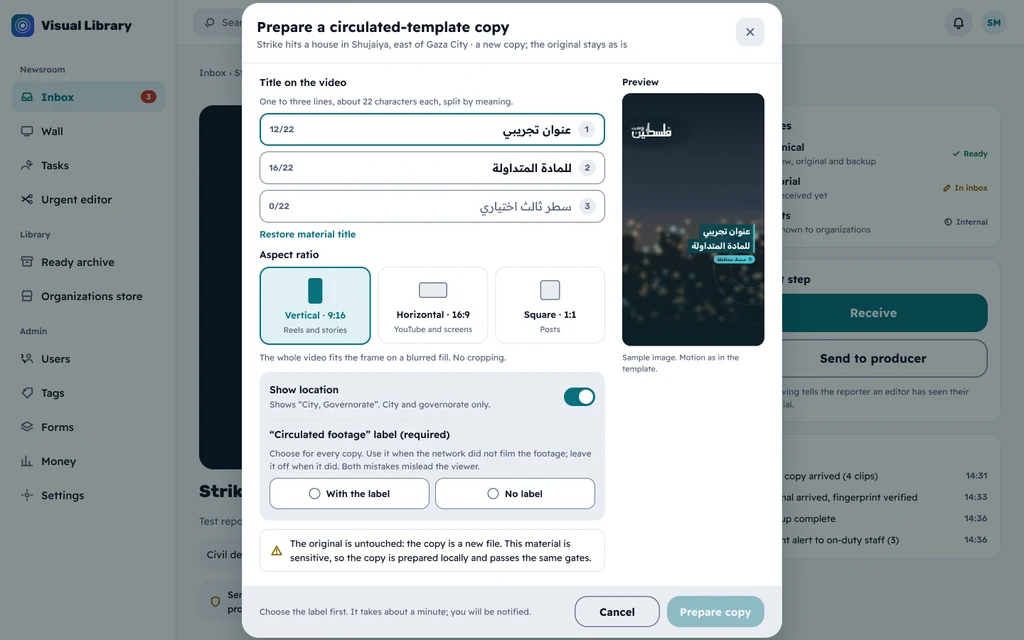
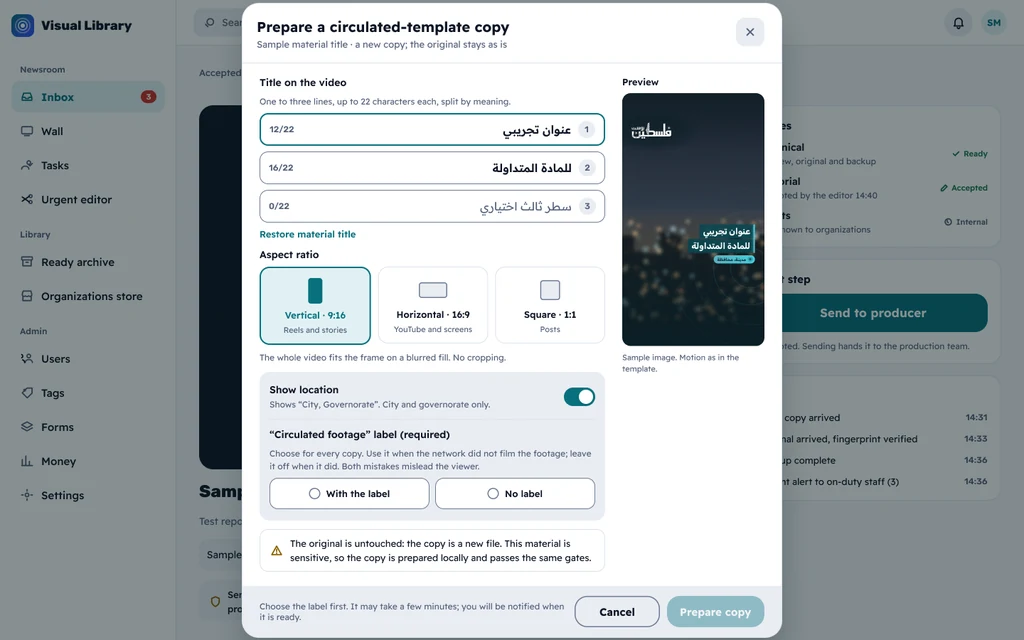
design: address #471 review on the copy-request frames
- Neutral sample text in every frame (title, breadcrumb, tags, place),
  an accepted material with a single original.
- Phone: label options stack, the bottom bar no longer hides actions,
  44px targets for download, close and "new request".
- Switch knob tokens: text/on-brand when on, neutral/0 when off, with
  both pairs added to v2.contrastPairs (54 pairs pass).
- "It may take a few minutes" instead of an unmeasured duration; the
  coordinator's copy for the queue limit, source limit, location error,
  temporary link and internal-use download.
- Strings table covers every visible string.
- Remove render stills under motion/circulated-template/out/ that an
  earlier commit picked up before the ignore rule existed.

Claude-Session: https://claude.ai/code/session_01HY7py4Kwox1KypVxZuFGKP

diff --git a/docs/design/specs/web-v2.md b/docs/design/specs/web-v2.md
@@ -138,11 +138,11 @@
 
 ## نسخة بقالب المتداول (صفحة Figma `Web · طلب نسخة بقالب المتداول`)
 
-**مقترح يطابق ADR 0091 وعقده (#469).** قرار المالك (2026-11-02): «نعم نربطه بخط الإنتاج». القالب نفسه في `video-template.md`، وهذا القسم يرسم طلبه من الويب وحالاته.
+**مقترح يطابق ADR 0091 وعقده (#469)، وقرارات المنسّق عليه (2026-11-02).** قرار المالك (2026-11-02): «نعم نربطه بخط الإنتاج». القالب نفسه في `video-template.md`، وهذا القسم يرسم طلبه من الويب وحالاته.
 
 - **من يطلب:** أدوار `supervisor` و`producer` و`editor_in_chief` ضمن نطاقها.
 - **كيف:** طلب صريح من الطاقم. لا يُطلق آليًا، وليس محرّرًا.
-- **النصوص في الإطارات:** أسطر العنوان والمعاينة نصّ تجريبي («عنوان تجريبي / للمادة المتداولة»، «مدينة، محافظة»)، لا عنوان المادة الحقيقي، لأن المعاينة تحمل الشعار.
+- **العيّنة:** مادة «مقبولة» بأصل واحد. والنصوص كلها تجريبية محايدة: «عنوان تجريبي للمادة»، و«مدينة، محافظة»، و«وسم تجريبي»، ولا أماكن حقيقية ولا عناوين أخبار.
 
 | الرمز | الشاشة | اللقطة |
 |---|---|---|
@@ -159,37 +159,43 @@
 | C11 | حالات المنع والأخطاء | `c11-errors` |
 | C12 | حالات المنع والأخطاء، إنجليزية | `c12-errors-en` |
 
-**الزرّ** في آخر بطاقة «الملفات» (Outline)، تحت النسخ التي طُلبت. لا يدخل «الخطوة التالية»، لأن تلك البطاقة لسير المادة التحريري، والنسخة طلب جانبي لا يغيّر شيئًا من الحالات الثلاث. وحين لا تُتاح النسخة لا يختفي الزرّ: يظهر معطَّلًا، وتحته السبب (C11).
+**الزرّ** في آخر بطاقة «الملفات» (Outline)، تحت النسخ التي طُلبت. لا يدخل «الخطوة التالية»، لأن تلك البطاقة لسير المادة التحريري، والنسخة طلب جانبي لا يغيّر شيئًا من الحالات الثلاث. وحين لا تُتاح النسخة لا يختفي الزرّ: يظهر معطَّلًا وتحته السبب (C11).
 
 **النافذة** (760 عرضًا على سطح المكتب، وورقة من أسفل الشاشة على الهاتف). حقولها هي `MaterialRenderRequest`:
 
 - **العنوان على الفيديو (`title_lines`):**
-  - من سطر إلى ثلاثة، ولكل سطر عدّاد `12/22`.
-  - العدّاد يعدّ نقاط الترميز (`Array.from(line).length`)، كما يعدّها الخادم، لا وحدات UTF-16.
+  - من سطر إلى ثلاثة، حتى 22 حرفًا للسطر، ولكل سطر عدّاد `12/22`.
+  - العدّاد يعدّ نقاط الترميز (`Array.from(line).length`) كما يعدّها الخادم، لا وحدات UTF-16.
   - تملأ الواجهة الحقول ابتداءً من عنوان المادة مقسومًا على الكلمات، والطاقم يعيد القسمة على المعنى. والخادم لا يقسم شيئًا.
   - «استعادة عنوان المادة» تعيد القسمة الأولى.
-  - فوق 22 يصير العدّاد والإطار بلون الخطر، ويتعطّل «تجهيز النسخة» (C11). وتُرفض محارف الاتجاه والتحكم والمسافات في الطرفين بالقاعدة نفسها، فتُنظَّف عند اللصق.
-- **المقاس (`aspect`):** ثلاث بطاقات بشكل المقاس مصغّرًا: `vertical` 9:16 (الافتراضي)، و`horizontal` 16:9، و`square` 1:1. الفيديو يدخل الإطار كاملًا، والفراغ حوله بخلفية مموّهة من الفيديو نفسه، فلا قصّ.
-- **المعاينة:** القالب مصغّرًا بالعنوان والمكان، ويتبدّل مع المقاس والاختيارات. الخلفية صورة تجريبية، لا إطار من المادة، لأن المادة قد تكون حسّاسة، ولا يلزم مسار عرض جديد لها.
-- **إظهار المكان (`show_location`)** مشغَّل افتراضيًا، والسطر تحته يكتب ما سيظهر. النصّ يبنيه الخادم من حقلَي المادة (`city` و`governorate`)، فلا إحداثيات ولا تفصيل أدقّ (`CLAUDE.md` §5). وإن زاد على 44 حرفًا (`422 render_location_unusable`) يُعطَّل المفتاح، ويقول السبب (C11).
+  - فوق 22 يصير العدّاد والإطار بلون الخطر، ويتعطّل «تجهيز النسخة». ومحارف الاتجاه والتحكم والمسافات في الطرفين تُنظَّف عند اللصق، لأن الخادم يرفضها.
+- **المقاس (`aspect`):** ثلاث بطاقات بشكل المقاس مصغّرًا: `vertical` 9:16 (الافتراضي)، و`horizontal` 16:9، و`square` 1:1. الفيديو يدخل الإطار كاملًا، والفراغ حوله بخلفية مموّهة منه، فلا قصّ.
+- **المعاينة:** القالب مصغّرًا بالعنوان والمكان، ويتبدّل مع المقاس والاختيارات. الخلفية صورة تجريبية، لا إطار من المادة: المادة قد تكون حسّاسة، ولا يلزم لها مسار عرض جديد.
+- **إظهار المكان (`show_location`):**
+  - مشغَّل افتراضيًا، والسطر تحته يكتب ما سيظهر.
+  - النصّ يبنيه الخادم من حقلَي المادة، فلا إحداثيات ولا تفصيل أدقّ (`CLAUDE.md` §5).
+  - إن لم يصلح للقالب بطوله أو محارفه (`422 render_location_unusable`) يُعطَّل المفتاح، ويقول السبب.
 - **وسم «مشاهد متداولة» (`label`): اختيار إلزامي بلا افتراض:**
-  - خياران لا يُختار أيٌّ منهما سلفًا: «بوسم «مشاهد متداولة»» (`circulated_footage`) و«بلا وسم» (`none`).
-  - و«تجهيز النسخة» معطَّل حتى يُختار أحدهما.
-  - الخطأ ممكن في الاتجاهين: وسم ما صوّرته الشبكة بأنه متداول، أو تقديم مشاهد طرف ثالث كأنها من تصوير الشبكة. والاختيار يُسجَّل مع الطالب.
-- **ملاحظة واحدة:** «الأصل لا يُمسّ: النسخة ملف جديد». وللمادة الحسّاسة: «تُجهَّز النسخة محليًا وتمرّ بالبوابات نفسها». النسخة ترث حساسية المادة وحقوقها، ولا تذهب إلى مزوّد خارجي، والنشر عبر بوابة ADR 0084 كما هي.
-- **الأفعال:** «تجهيز النسخة» (Solid) و«إلغاء». في العربية يقع الفعل الأول يسارًا، عكس ترتيبه في الإنجليزية. والسطر بجانبهما يقول ما ينقص قبل الإرسال («اختر الوسم أولًا»)، ثم «التجهيز نحو دقيقة، وتصلك إشارة حين تجهز».
+  - خياران لا يُختار أيٌّ منهما سلفًا: `circulated_footage` و`none`. في الهاتف يُكدَّسان عموديًا كي لا يُقصّ النصّ.
+  - «تجهيز النسخة» معطَّل حتى يُختار أحدهما.
+  - الخطأ ممكن في الاتجاهين، والاختيار يُسجَّل مع الطالب.
+- **الملاحظة:** «الأصل لا يُمسّ: النسخة ملف جديد». وللمادة الحسّاسة تُضاف: «تُجهَّز النسخة محليًا وتمرّ بالبوابات نفسها».
+- **الأفعال:** «تجهيز النسخة» (Solid) و«إلغاء».
+  - في العربية يقع الفعل الأول يسارًا، عكس ترتيبه في الإنجليزية.
+  - والسطر بجانبهما يقول ما ينقص قبل الإرسال («اختر الوسم أولًا»)، ثم «قد يستغرق التجهيز دقائق». ولا رقم للمدة حتى يقيسها ADR 0091 (البند 7).
 
 **الحالات في بطاقة «الملفات»:**
 
 - النسخ لا تأتي من `Material.files`، بل من `GET /materials/{id}/renders`. وتُعرض تحت الأصل والنسخة الخفيفة في مجموعة «نسخ بقالب المتداول»، بوسم «داخلية» موروث من المادة.
+- الحالات بقرار المنسّق: `requested` ← `rendering` ← `ready` أو `failed`.
 - كل نسخة صفّ فيه شكل مقاسها، وكل حالة كلمة وأيقونة ولون معًا.
 
 | `state` | الوسم | ما يقوله الصفّ | الفعل |
 |---|---|---|---|
 | `requested` | `muted` «مطلوبة» | «في الطابور» | لا شيء |
-| `rendering` | `brand` «قيد التجهيز» | «بدأ 14:55»، وشريط غير محدَّد يتحرّك بلا رقم، لأن العقد لا يعطي نسبة | لا شيء |
-| `ready` | `ok` «جاهزة» | «جاهزة 14:52 · رابط التنزيل صالح 10 دقائق» | «تنزيل»: يطلب `download-url` عند النقر، فلا يُخزَّن رابط في الصفحة. وإن سقطت الحقوق يردّ `409 render_not_allowed` ويقول السبب |
-| `failed` | `danger` «تعذّرت» | السبب من `failure_reason` بكلمات (الجدول أدناه) | «طلب جديد» بالمعاملات نفسها، لأن `failed` نهائية |
+| `rendering` | `brand` «قيد التجهيز» | «بدأ 14:55» (`started_at`، يضيفه #469)، وشريط غير محدَّد يتحرّك بلا رقم، لأن العقد لا يعطي نسبة | لا شيء |
+| `ready` | `ok` «جاهزة» | «جاهزة 14:52 · التنزيل برابط مؤقت»، وتحته «للاستعمال الداخلي؛ النشر يمر ببوابة النشر» | «تنزيل»: تنزيل داخلي مُدقَّق، يطلب `download-url` عند النقر، فلا يُخزَّن رابط في الصفحة. وإن سقطت الحقوق يردّ `409 render_not_allowed` ويقول السبب. «تنزيل جاهز للنشر» مؤجَّل إلى مرحلة «مكتب المحرر» (ADR 0084) |
+| `failed` | `danger` «تعذّرت» | السبب من `failure_reason` (الجدول أدناه) | «طلب جديد»: يفتح النافذة مملوءة بمعاملات النسخة الفاشلة، فيعدّلها الطاقم، لا سيما العنوان بعد `title_overflow`. وهو طلب جديد لأن `failed` نهائية |
 
 | `failure_reason` | ما يقوله الصفّ |
 |---|---|
@@ -202,52 +208,101 @@
 | الرمز | ما تقوله الواجهة |
 |---|---|
 | `409 render_not_allowed` · `editorial_state` | «تُتاح بعد قبول المادة تحريريًا»، ومعها الحالة الآن |
-| `409 render_not_allowed` · `source` | «تُتاح حين يصل الأصل ويُتحقَّق من بصمته». والأصل الأطول من 5 دقائق لا يُجهَّز الآن |
+| `409 render_not_allowed` · `source` | «تُتاح حين يصل الأصل ويُتحقَّق من بصمته. والمقطع الأطول من الحد المسموح للقالب لا يُجهَّز» (بلا رقم، لأن الحدّ مؤقت في ADR 0091) |
 | `409 render_not_allowed` · `rights_state` | «لا تُجهَّز نسخ لمادة حقوقها محجوبة أو مسحوبة»، وتتوقف روابط النسخ القائمة |
-| `409 render_limit_reached` | «في الطابور ثلاث نسخ لهذه المادة. انتظر حتى تجهز إحداها أو تتعذّر» |
-| `422 render_location_unusable` | مفتاح المكان معطَّل: «المدينة والمحافظة أطول من 44 حرفًا. صحّح حقلي المادة، أو اطلب النسخة بلا مكان» |
+| `409 render_limit_reached` | «ثلاث نسخ لهذه المادة قيد الطلب أو التجهيز»، فالحدّ يعدّ الحالتين معًا |
+| `422 render_location_unusable` | مفتاح المكان معطَّل: «نص المكان لا يصلح للقالب (طوله أو محارفه)» |
 | `422` تحقّق السطر | يُمنع في الواجهة قبل الإرسال: عدّاد أحمر، و«تجهيز النسخة» معطَّل |
 
-**الحالات الأربع بقرار المنسّق** (2026-11-02): `requested` ← `rendering` ← `ready` أو `failed`. تُضاف `rendering` إلى العقد في #469، ويكتبها العامل حين يلتقط المهمة. ولا نسبة في العقد، فالشريط غير محدَّد. وإن أُضيفت نسبة يومًا تُعرض معزولة الاتجاه (`<bdi>`).
-
-**الإنجليزية:** الواجهة معكوسة كلها، ما عدا أسطر العنوان والمعاينة، فهي عربية لأن القالب عربي، ونسخته اللاتينية سؤال مفتوح في ADR 0091.
+**اللمس:** كل هدف على الهاتف ≥ 44 بكسلًا: زرّ التنزيل، وزرّ الإغلاق، و«طلب جديد» (زرّ بحدود)، وخيارا الوسم. ولمفتاح المكان، هدف اللمس **الصفّ كله** (العنوان والسطر والمفتاح)، لا المفتاح وحده.
 
 **المفتاح** مكوّن جديد اسمه `Switch` (القيمة × الاتجاه):
 
-- مساره `action/primary` مشغَّلًا و`border/edge` مطفأً.
-- مقبضه في العربية يسارًا حين يُشغَّل.
-- والوسم ليس مفتاحًا: اختياره بين خيارين بلا افتراض.
+- **المسار:** `action/primary` مشغَّلًا، و`border/edge` مطفأً.
+- **المقبض مشغَّلًا:** `text/on-brand`، وتباينه 5.72:1 فاتحًا و9.07:1 داكنًا.
+- **المقبض مطفأً:** `neutral/0`، وتباينه 4.27:1.
+- **الأزواج:** في `v2.contrastPairs` بملف `tokens.v2.json`، وفحص `contrast-check` يمرّ على 54 زوجًا.
+- **الاتجاه:** مقبضه في العربية يسارًا حين يُشغَّل.
+- **الوسم ليس مفتاحًا:** اختياره بين خيارين بلا افتراض.
+
+**الإنجليزية:** الواجهة معكوسة كلها، ما عدا أسطر العنوان والمعاينة، فهي عربية لأن القالب عربي، ونسخته اللاتينية سؤال مفتوح في ADR 0091.
+
+**النصوص:** كل نصّ ظاهر في الإطارات له مفتاح. وما بين `{}` قيمة تُملأ وقت العرض، ويُعزل اتجاهها (`<bdi>`).
 
 | المفتاح | العربية | English |
 |---|---|---|
 | `derivative.template.action` | تجهيز نسخة بقالب المتداول | Prepare a circulated-template copy |
+| `derivative.template.title` | تجهيز نسخة بقالب المتداول | Prepare a circulated-template copy |
+| `derivative.template.subtitle` | {title} · نسخة جديدة، والأصل كما هو | {title} · a new copy; the original stays as is |
+| `derivative.template.subtitleShort` | {title} · الأصل كما هو | {title} · original untouched |
+| `derivative.template.close` | إغلاق | Close |
+| `derivative.template.preview` | معاينة | Preview |
+| `derivative.template.previewCaption` | صورة تجريبية. التحريك كما في القالب. | Sample image. Motion as in the template. |
+| `derivative.template.previewCaptionPhone` | تتبدّل مع المقاس والمفاتيح. صورة تجريبية، والتحريك كما في القالب. | Changes with the ratio and switches. Sample image; motion as in the template. |
 | `derivative.template.titleLines` | العنوان على الفيديو | Title on the video |
-| `derivative.template.titleHint` | سطر إلى ثلاثة، نحو 22 حرفًا للسطر. اقسم على معنى الجملة. | One to three lines, about 22 characters each, split by meaning. |
+| `derivative.template.titleHint` | سطر إلى ثلاثة، حتى 22 حرفًا للسطر. اقسم على معنى الجملة. | One to three lines, up to 22 characters each, split by meaning. |
+| `derivative.template.lineCounter` | {count}/22 | {count}/22 |
+| `derivative.template.lineNumber` | السطر {n} | Line {n} |
+| `derivative.template.line3Placeholder` | سطر ثالث اختياري | Optional third line |
 | `derivative.template.restoreTitle` | استعادة عنوان المادة | Restore material title |
 | `derivative.template.ratio` | المقاس | Aspect ratio |
+| `derivative.template.aspect.vertical` | عمودي · 9:16 | Vertical · 9:16 |
+| `derivative.template.aspect.verticalCaption` | ريلز وقصص | Reels and stories |
+| `derivative.template.aspect.horizontal` | أفقي · 16:9 | Horizontal · 16:9 |
+| `derivative.template.aspect.horizontalCaption` | يوتيوب والشاشات | YouTube and screens |
+| `derivative.template.aspect.square` | مربّع · 1:1 | Square · 1:1 |
+| `derivative.template.aspect.squareCaption` | منشورات | Posts |
 | `derivative.template.ratioHint` | الفيديو كاملًا داخل الإطار، والفراغ حوله بخلفية مموّهة منه. لا قصّ. | The whole video fits the frame on a blurred fill. No cropping. |
 | `derivative.template.showLocation` | إظهار المكان | Show location |
+| `derivative.template.locationHint` | يظهر: «{location}». المدينة والمحافظة فقط، بلا إحداثيات. | Shows “{location}”. City and governorate only. |
 | `derivative.template.label` | وسم «مشاهد متداولة» (اختيار إلزامي) | “Circulated footage” label (required) |
 | `derivative.template.labelHint` | اختر لكل نسخة. ضعه حين لم تصوّر الشبكة المشاهد، ولا تضعه حين صوّرتها؛ والخطأ في الاتجاهين يضلّل المشاهد. | Choose for every copy. Use it when the network did not film the footage; leave it off when it did. Both mistakes mislead the viewer. |
 | `derivative.template.labelWith` | بوسم «مشاهد متداولة» | With the label |
 | `derivative.template.labelNone` | بلا وسم | No label |
-| `derivative.template.chooseLabelFirst` | اختر الوسم أولًا. | Choose the label first. |
 | `derivative.template.note` | الأصل لا يُمسّ: النسخة ملف جديد. | The original is untouched: the copy is a new file. |
 | `derivative.template.noteSensitive` | والمادة حسّاسة، فتُجهَّز النسخة محليًا وتمرّ بالبوابات نفسها. | This material is sensitive, so the copy is prepared locally and passes the same gates. |
+| `derivative.template.chooseLabelFirst` | اختر الوسم أولًا. | Choose the label first. |
+| `derivative.template.footer` | قد يستغرق التجهيز دقائق، وتصلك إشارة حين تجهز. | It may take a few minutes; you will be notified when it is ready. |
+| `derivative.template.cancel` | إلغاء | Cancel |
 | `derivative.template.submit` | تجهيز النسخة | Prepare copy |
+| `derivative.files.title` | الملفات | Files |
+| `derivative.files.original` | الأصل | Original |
+| `derivative.files.originalSub` | محفوظ كما وصل، وبصمته متحقَّقة | Kept as received, fingerprint verified |
+| `derivative.files.proxy` | النسخة الخفيفة · MP4 | Light copy · MP4 |
+| `derivative.files.proxySub` | للمعاينة في المتصفح | For browser preview |
+| `derivative.group.title` | نسخ بقالب المتداول | Circulated-template copies |
+| `derivative.group.internalBadge` | داخلية | Internal |
+| `derivative.group.inherit` | ترث حساسية المادة، فتبقى داخلية حتى تمرّ بالبوابات. | They inherit the material’s sensitivity and stay internal until they pass the gates. |
+| `derivative.row.aspect.vertical` | عمودي · 9:16 | Vertical · 9:16 |
+| `derivative.row.aspect.horizontal` | أفقي · 16:9 | Horizontal · 16:9 |
+| `derivative.row.aspect.square` | مربّع · 1:1 | Square · 1:1 |
 | `derivative.state.requested` | مطلوبة | Requested |
 | `derivative.state.rendering` | قيد التجهيز | Rendering |
 | `derivative.state.ready` | جاهزة | Ready |
 | `derivative.state.failed` | تعذّرت | Failed |
+| `derivative.row.requestedSub` | في الطابور | Queued |
+| `derivative.row.renderingSub` | بدأ {time} | Started {time} |
+| `derivative.row.readySub` | جاهزة {time} · التنزيل برابط مؤقت | Ready {time} · download through a temporary link |
+| `derivative.row.internalUse` | للاستعمال الداخلي؛ النشر يمر ببوابة النشر. | For internal use; publishing goes through the publishing gate. |
+| `derivative.row.download` | تنزيل | Download |
+| `derivative.row.downloadAria` | تنزيل نسخة {aspect} | Download the {aspect} copy |
 | `derivative.newRequest` | طلب جديد | New request |
 | `derivative.failure.title_overflow` | سطر في العنوان أطول من أن يتّسع في القالب. اختصره واطلب نسخة جديدة. | A title line is too wide for the template. Shorten it and request a new copy. |
 | `derivative.failure.source_unavailable` | تعذّر الوصول إلى الأصل. أعد الطلب بعد قليل. | The original could not be reached. Request again shortly. |
 | `derivative.failure.render_failed` | تعذّر تجهيز النسخة. أعد الطلب، وإن تكرّر فأبلغ الدعم. | The copy could not be prepared. Request again, and report it if it repeats. |
-| `derivative.blocked.editorial_state` | تُتاح بعد قبول المادة تحريريًا. | Available once the material is accepted. |
-| `derivative.blocked.source` | تُتاح حين يصل الأصل ويُتحقَّق من بصمته. | Available once the original arrives and its fingerprint is verified. |
-| `derivative.blocked.rights_state` | لا تُجهَّز نسخ لمادة حقوقها محجوبة أو مسحوبة. | No copies for material whose rights are blocked or withdrawn. |
-| `derivative.blocked.limit` | في الطابور ثلاث نسخ لهذه المادة. انتظر حتى تجهز إحداها أو تتعذّر. | Three copies of this material are queued. Wait until one is ready or fails. |
-| `derivative.blocked.location` | المدينة والمحافظة أطول من 44 حرفًا. صحّح حقلي المادة، أو اطلب النسخة بلا مكان. | The city and governorate are longer than 44 characters. Fix the material fields, or request the copy without a location. |
+| `derivative.blocked.intro` | الزرّ لا يختفي حين لا تُتاح النسخة: يظهر معطَّلًا وتحته السبب. | The button does not disappear when a copy is not available: it is shown disabled with the reason under it. |
+| `derivative.blocked.editorial_state.title` | قبل القبول التحريري | Before editorial acceptance |
+| `derivative.blocked.editorial_state` | تُتاح بعد قبول المادة تحريريًا. الحالة الآن: {state}. | Available once the material is accepted. It is {state} now. |
+| `derivative.blocked.source.title` | قبل التحقق من الأصل | Before the original is verified |
+| `derivative.blocked.source` | تُتاح حين يصل الأصل ويُتحقَّق من بصمته. والمقطع الأطول من الحد المسموح للقالب لا يُجهَّز. | Available once the original arrives and its fingerprint is verified. A clip longer than the template allows is not rendered. |
+| `derivative.blocked.rights_state.title` | حقوق محجوبة أو مسحوبة | Rights blocked or withdrawn |
+| `derivative.blocked.rights_state` | لا تُجهَّز نسخ لمادة حقوقها محجوبة أو مسحوبة، وتتوقف روابط تنزيل النسخ القائمة. | No copies for material whose rights are blocked or withdrawn, and download links for existing copies stop working. |
+| `derivative.blocked.limit.title` | ثلاث نسخ قيد الطلب أو التجهيز | Three copies requested or rendering |
+| `derivative.blocked.limit` | ثلاث نسخ لهذه المادة قيد الطلب أو التجهيز. انتظر حتى تجهز إحداها أو تتعذّر. | Three copies of this material are requested or rendering. Wait until one is ready or fails. |
+| `derivative.blocked.location.title` | نص المكان لا يصلح للقالب | Location text does not suit the template |
+| `derivative.blocked.location` | معطَّل: نص المكان لا يصلح للقالب (طوله أو محارفه). صحّح حقلي المادة، أو اطلب النسخة بلا مكان. | Disabled: the location text does not suit the template (its length or characters). Fix the material fields, or request the copy without a location. |
+| `derivative.blocked.line.title` | سطر أطول من 22 حرفًا | A line over 22 characters |
+| `derivative.blocked.line` | اختصر السطر أو انقل كلمة إلى السطر التالي. «تجهيز النسخة» معطَّل حتى يُصلَح. | Shorten the line or move a word to the next one. “Prepare copy” stays disabled until it is fixed. |
 
 ## النصوص بالإنجليزية (المتجر والرفع)
 
